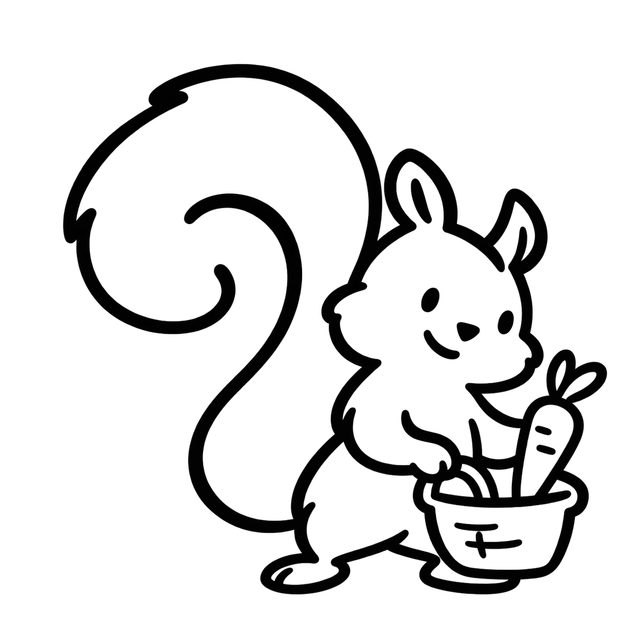
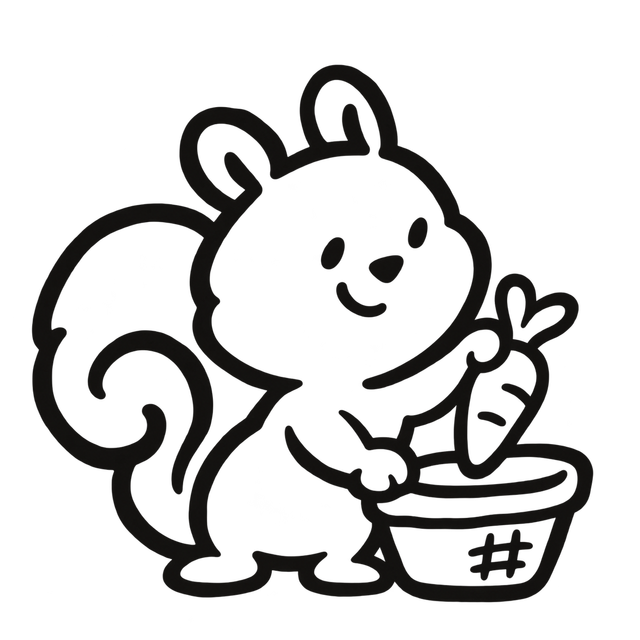
feat: 다람쥐 그림을 새 그림으로 교체

Changed region(s): [[0.0312, 0.0938, 0.9688, 0.9688]]

diff --git a/src/_pages/intro/ui/intro-page.test.tsx b/src/_pages/intro/ui/intro-page.test.tsx
@@ -25,18 +25,15 @@ test('제목 영역에 대체 텍스트 없는 다람쥐가 있다', () => {
   assert.match(mascot?.getAttribute('src') ?? '', /default/);
 });
 
-test('제목 영역 다람쥐 옆에 물음표가 있고 대체 텍스트가 비어 있다', () => {
+test('물음표는 다람쥐 그림에 들어 있어 따로 겹쳐 그리지 않는다', () => {
   const { container } = render(<IntroPage />);
-  const [, question] = [...container.querySelectorAll('main img')];
-  assert.match(question?.getAttribute('src') ?? '', /question/);
-  assert.equal(question?.getAttribute('alt'), '');
+  const sources = [...container.querySelectorAll('main img')].map((img) => img.getAttribute('src') ?? '');
+  assert.equal(sources.filter((src) => /question/.test(src)).length, 0);
 });
 
-test('제목 영역 다람쥐와 물음표가 화면 폭에 맞춰 줄어드는 크기를 쓴다', () => {
+test('제목 영역 다람쥐가 화면 폭에 맞춰 줄어드는 크기를 쓴다', () => {
   const { container } = render(<IntroPage />);
-  const [mascot, question] = [...container.querySelectorAll('main img')];
-  assert.ok(mascot?.className.includes('size-(--mascot-header-size)'));
-  assert.ok(question?.className.includes('size-(--mascot-question-size)'));
+  assert.ok(container.querySelector('main img')?.className.includes('size-(--mascot-header-size)'));
 });
 
 test('제목, 설명, 캐러셀, 시작 버튼이 순서대로 나온다', () => {

diff --git a/src/_pages/home/ui/home-page.test.tsx b/src/_pages/home/ui/home-page.test.tsx
@@ -51,12 +51,10 @@ test('제목 영역 다람쥐가 화면 폭에 맞춰 줄어드는 크기를 쓴
   assert.ok(container.querySelector('main img')?.className.includes('size-(--mascot-header-size)'));
 });
 
-test('제목 영역 다람쥐 옆에 물음표가 있고 화면 폭에 맞춰 줄어드는 크기를 쓴다', () => {
+test('물음표는 다람쥐 그림에 들어 있어 따로 겹쳐 그리지 않는다', () => {
   const { container } = render(<HomePage />);
-  const [, question] = [...container.querySelectorAll('main img')];
-  assert.match(question?.getAttribute('src') ?? '', /question/);
-  assert.equal(question?.getAttribute('alt'), '');
-  assert.ok(question?.className.includes('size-(--mascot-question-size)'));
+  const sources = [...container.querySelectorAll('main img')].map((img) => img.getAttribute('src') ?? '');
+  assert.equal(sources.filter((src) => /question/.test(src)).length, 0);
 });
 
 test('직접 고르기 아래에 예시 구역 제목이 있다', () => {

diff --git a/src/_app/styles/globals.css b/src/_app/styles/globals.css
@@ -111,8 +111,11 @@
   --section-gap: var(--space-6);
   --control-height: 2.75rem;
   --control-height-primary: 3rem;
-  --mascot-header-size: clamp(6.5rem, 30vw, 9.375rem); /* 소개와 시작 홈 제목 영역의 다람쥐 */
-  --mascot-question-size: calc(var(--mascot-header-size) * 0.32); /* 소개의 물음표 */
+  --mascot-header-size: clamp(
+    6.5rem,
+    30vw,
+    9.375rem
+  ); /* 소개와 시작 홈 제목 영역의 다람쥐. 물음표가 그림에 들어 있다 */
 
   /* 형태 */
   --radius-control: 0.5rem;

diff --git a/src/_pages/home/ui/home-page.tsx b/src/_pages/home/ui/home-page.tsx
@@ -29,7 +29,6 @@ export function HomePage() {
             </div>
             <div className="relative -ml-4 shrink-0">
               <Mascot pose="default" size={150} priority className="mr-4 size-(--mascot-header-size)" />
-              <Mascot pose="question" size={48} className="absolute top-0 right-0 size-(--mascot-question-size)" />
             </div>
           </div>
         </div>

diff --git a/src/_pages/intro/ui/intro-page.tsx b/src/_pages/intro/ui/intro-page.tsx
@@ -21,7 +21,6 @@ export function IntroPage() {
           </div>
           <div className="relative -ml-4 shrink-0">
             <Mascot pose="default" size={150} priority className="mr-4 size-(--mascot-header-size)" />
-            <Mascot pose="question" size={48} className="absolute top-0 right-0 size-(--mascot-question-size)" />
           </div>
         </div>
       </div>

diff --git a/src/shared/assets/index.ts b/src/shared/assets/index.ts
@@ -6,8 +6,7 @@ export const MASCOT_IMAGES = {
   discovery: '/images/mascot/discovery.png',
   thinking: '/images/mascot/thinking.png',
   meal: '/images/mascot/meal.png',
-  retry: '/images/mascot/retry.png',
-  question: '/images/mascot/question.png'
+  retry: '/images/mascot/retry.png'
 } as const;
 export type MascotPose = keyof typeof MASCOT_IMAGES;
 

diff --git a/docs/tokens.css b/docs/tokens.css
@@ -93,7 +93,6 @@
   --control-height: 2.75rem;
   --control-height-primary: 3rem;
   --mascot-header-size: clamp(6.5rem, 30vw, 9.375rem); /* 소개와 시작 홈 제목 영역의 다람쥐 */
-  --mascot-question-size: calc(var(--mascot-header-size) * 0.32); /* 소개와 시작 홈의 물음표 */
 
   /* 형태 */
   --radius-control: 0.5rem;
